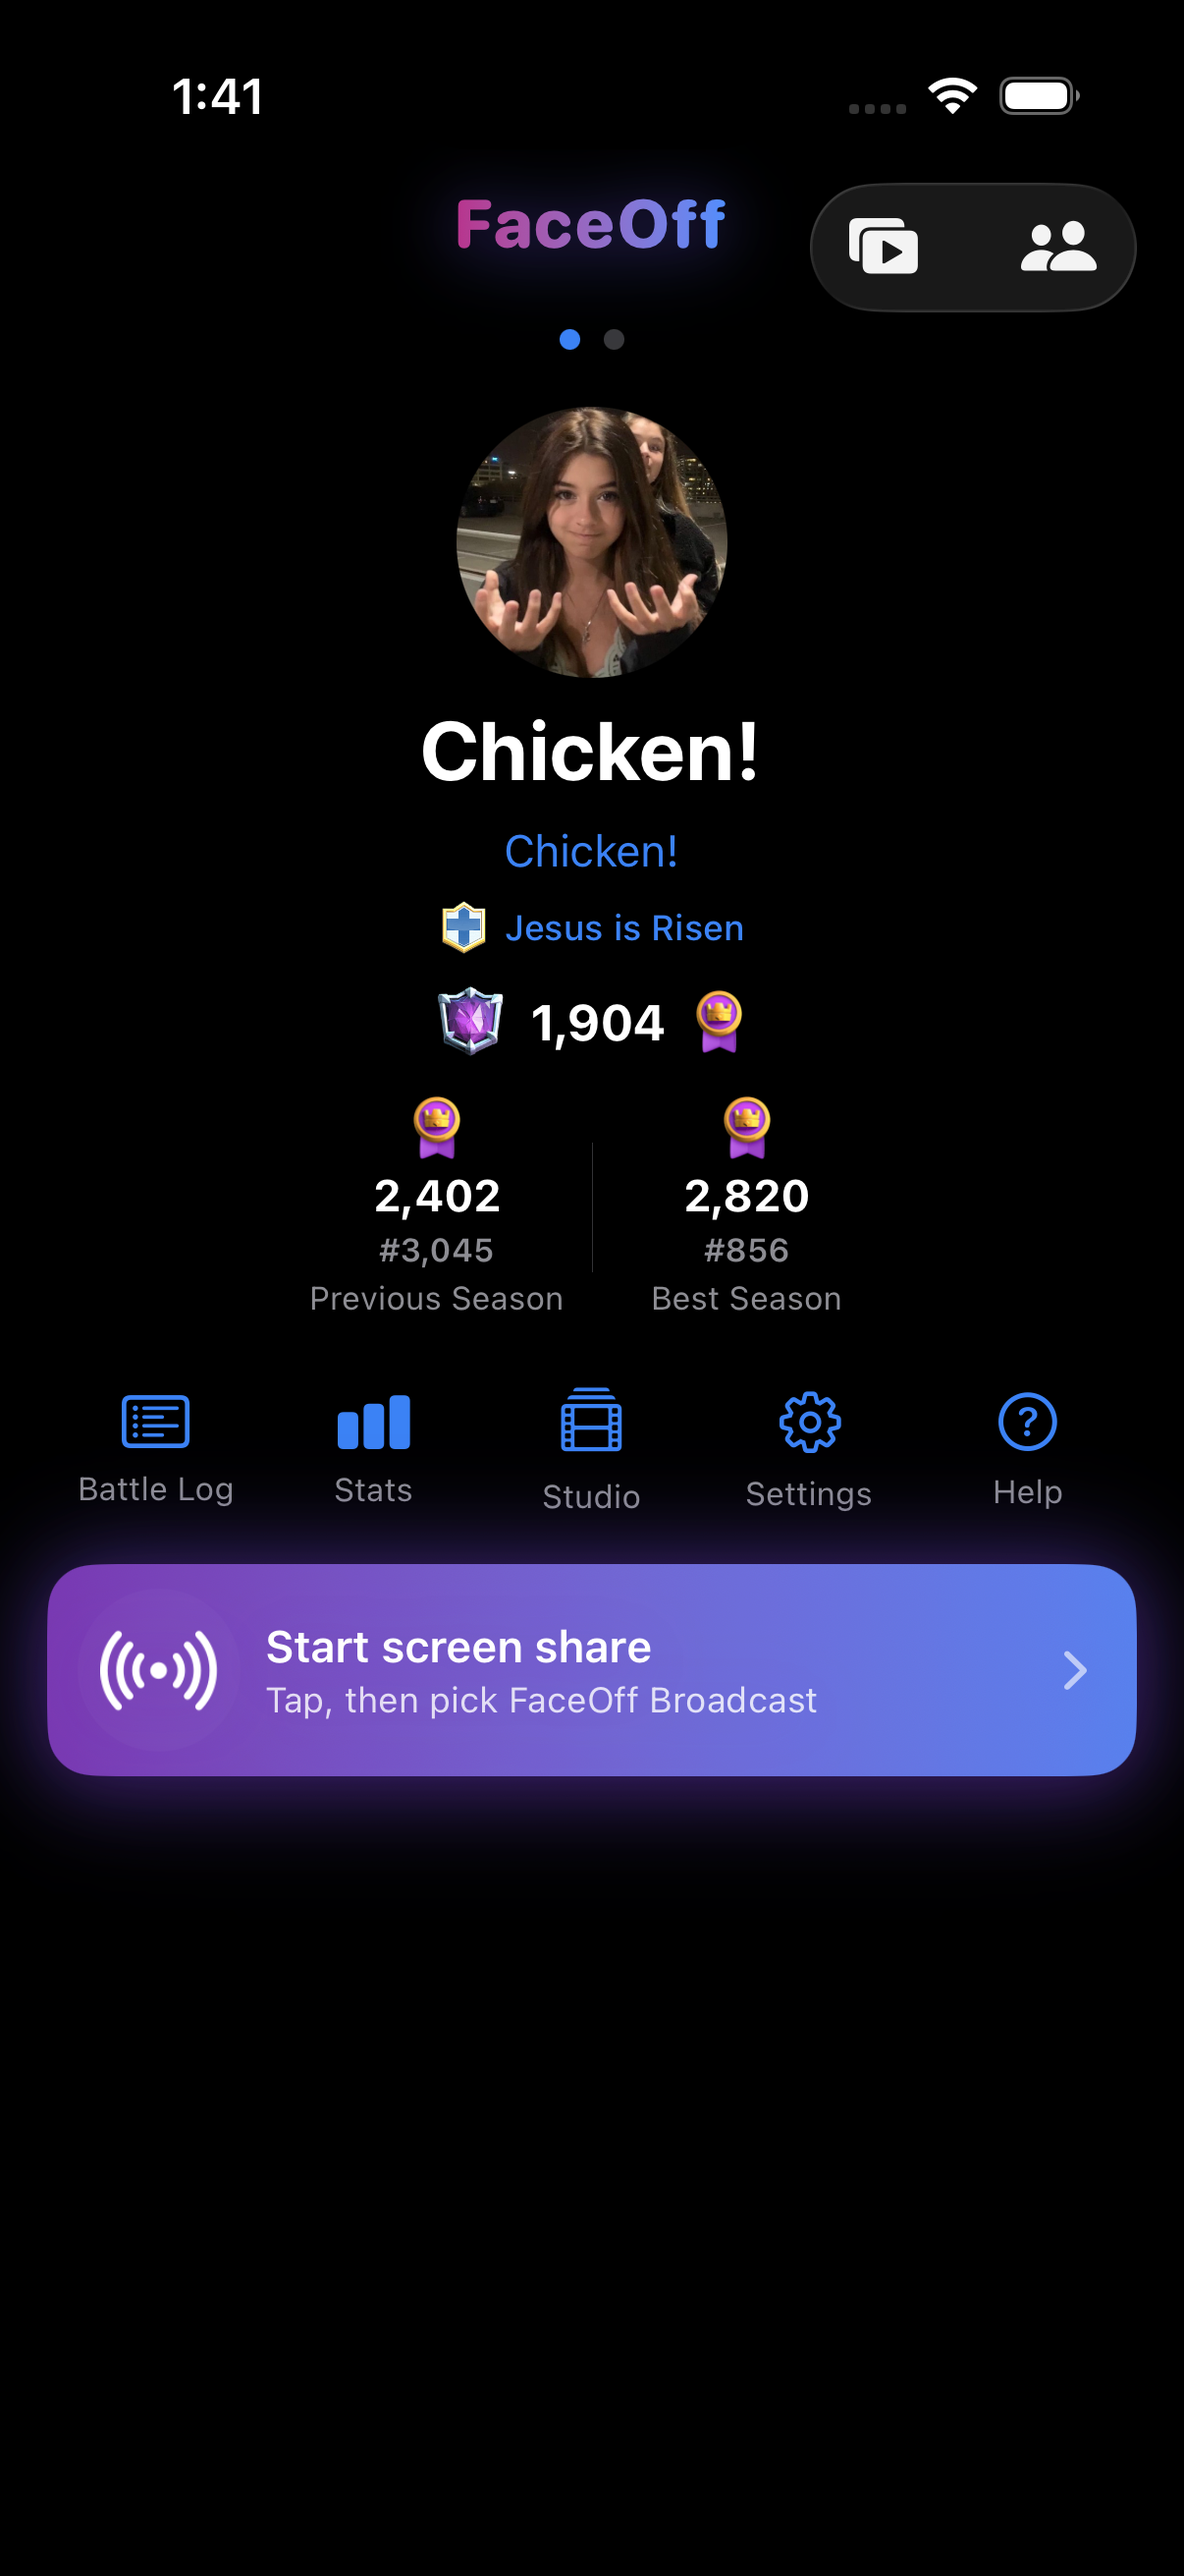
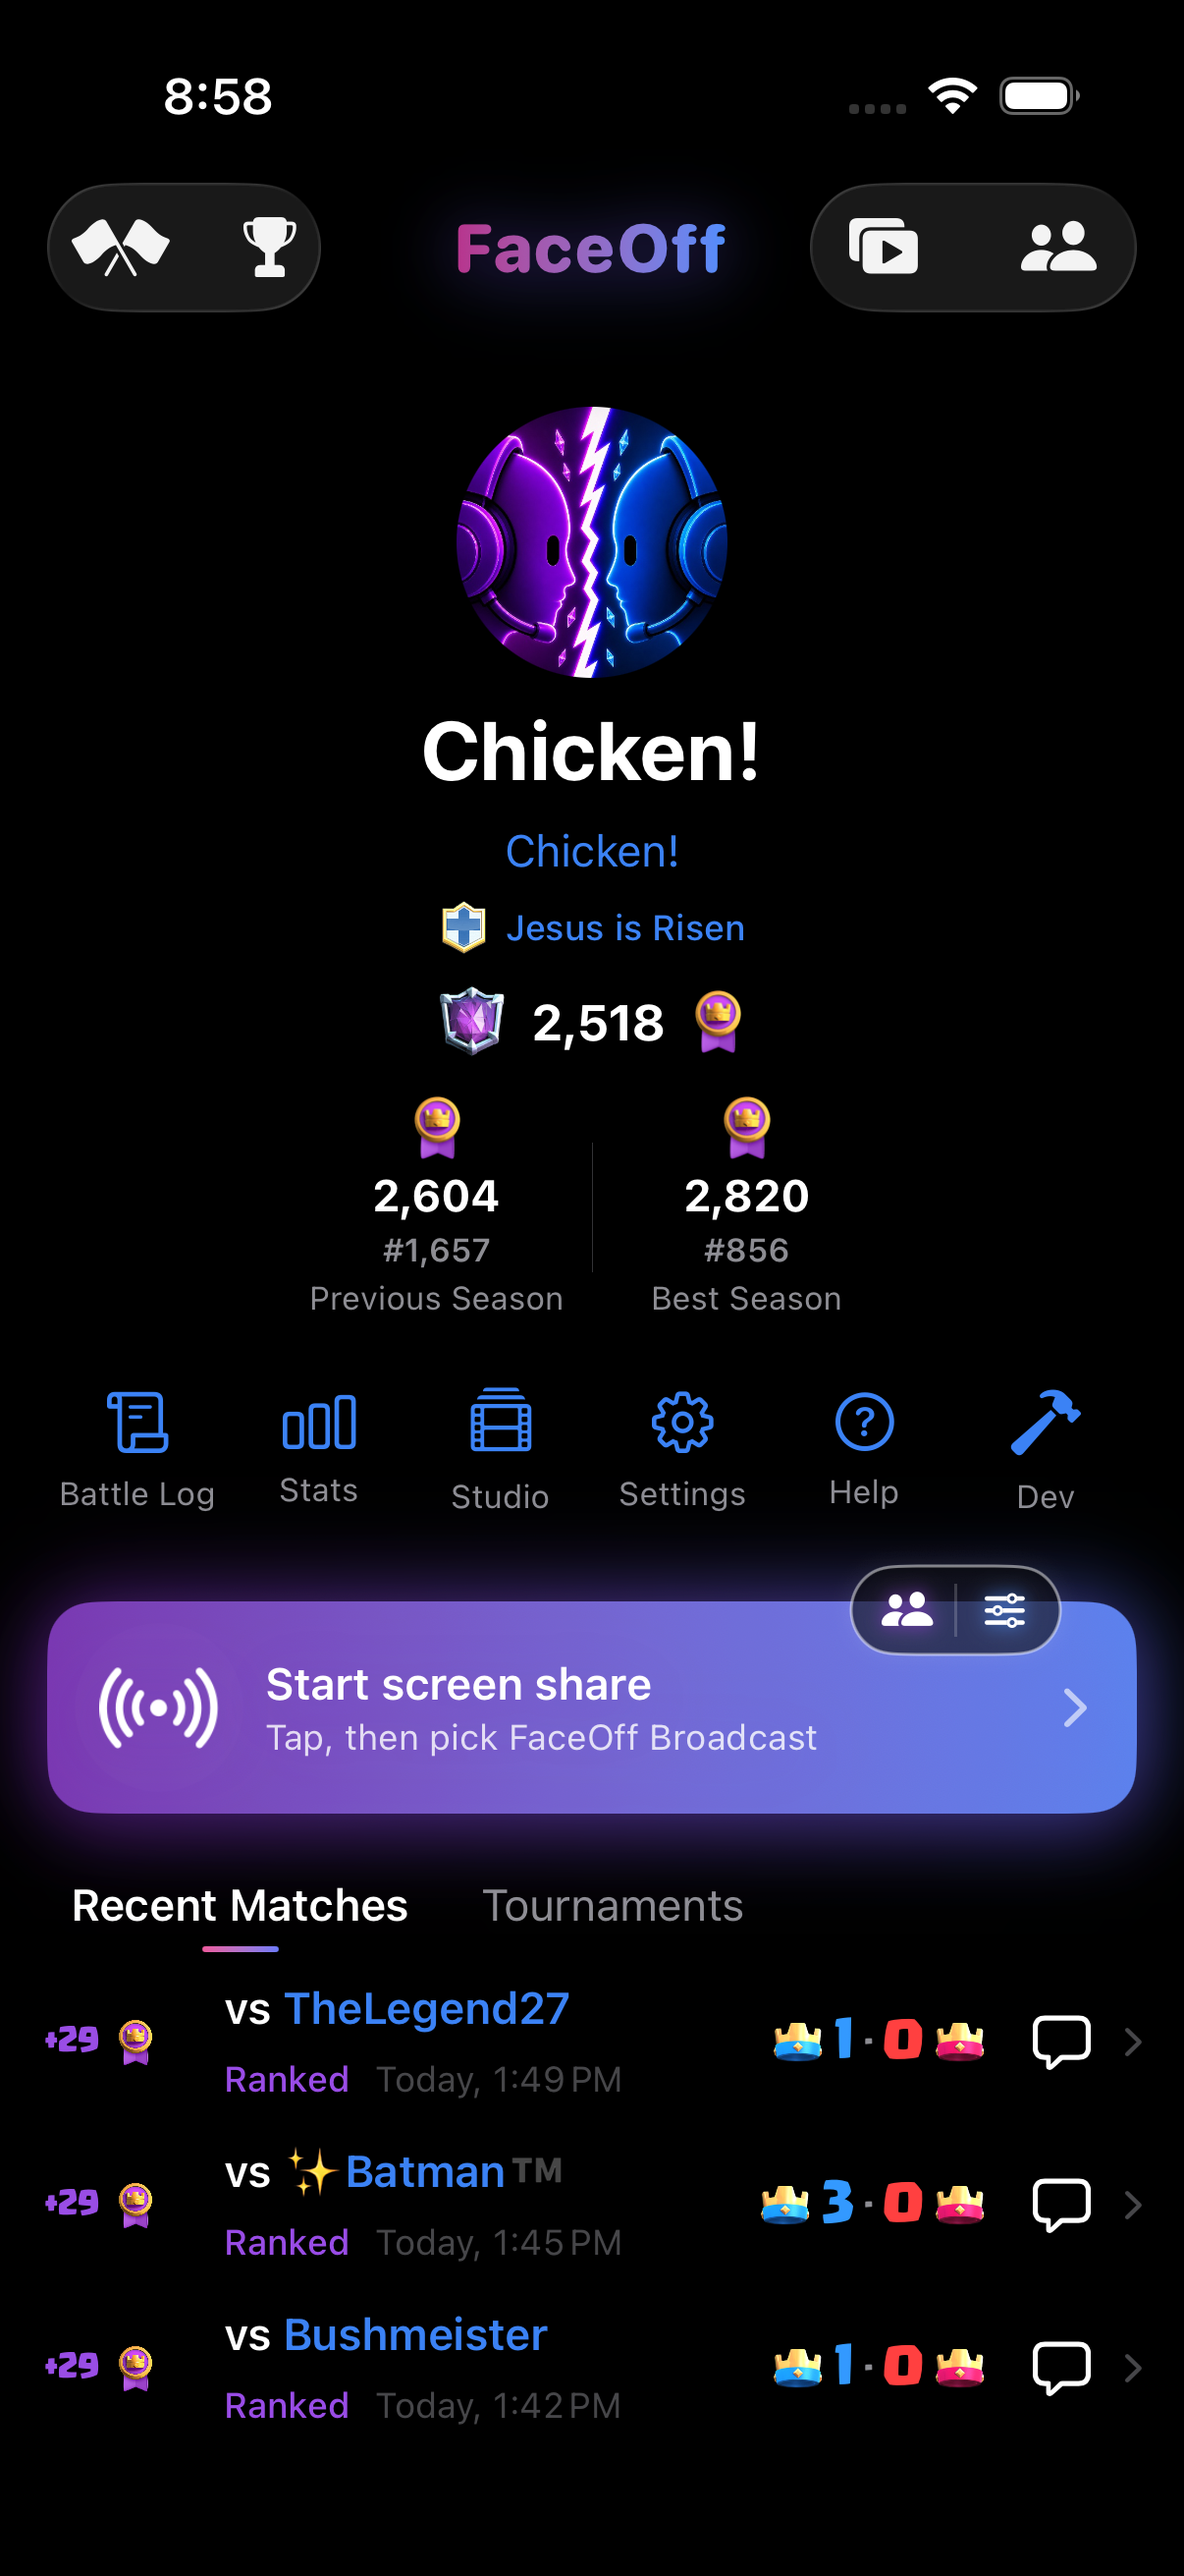
Refresh FaceOff gallery screenshots

diff --git a/index.html b/index.html
@@ -490,28 +490,28 @@
         </div>
         <div class="shot-row" id="faceoff-shots">
           <figure class="shot">
-            <button class="shot-trigger" type="button" data-full="./faceoff_shot_1.png" data-caption="iOS profile &amp; broadcast" aria-label="View the FaceOff iOS profile and screen-sharing screenshot full screen">
-              <img src="./faceoff_shot_1.png" alt="FaceOff iOS profile and screen-sharing interface" width="1206" height="2622" decoding="async" />
+            <button class="shot-trigger" type="button" data-full="./faceoff_shot_1.png" data-caption="iOS home" aria-label="View the FaceOff iOS home screenshot full screen">
+              <img src="./faceoff_shot_1.png" alt="FaceOff iOS home screen with profile, screen sharing, and recent matches" width="1206" height="2622" decoding="async" />
             </button>
-            <figcaption>iOS profile &amp; broadcast</figcaption>
+            <figcaption>iOS home</figcaption>
           </figure>
           <figure class="shot">
-            <button class="shot-trigger" type="button" data-full="./faceoff_shot_2.png" data-caption="iOS Studio" aria-label="View the FaceOff iOS Studio screenshot full screen">
-              <img src="./faceoff_shot_2.png" alt="FaceOff iOS Studio stream management interface" width="1206" height="2622" decoding="async" />
+            <button class="shot-trigger" type="button" data-full="./faceoff_shot_2.png" data-caption="iOS Battle Log" aria-label="View the FaceOff iOS Battle Log screenshot full screen">
+              <img src="./faceoff_shot_2.png" alt="FaceOff iOS Battle Log with match results and player decks" width="1206" height="2622" decoding="async" />
             </button>
-            <figcaption>iOS Studio</figcaption>
+            <figcaption>iOS Battle Log</figcaption>
           </figure>
           <figure class="shot">
-            <button class="shot-trigger" type="button" data-full="./faceoff_shot_3.png" data-caption="Android profile &amp; matches" aria-label="View the FaceOff Android profile and recent matches screenshot full screen">
-              <img src="./faceoff_shot_3.png" alt="FaceOff Android profile and recent matches interface" width="1080" height="2400" decoding="async" />
+            <button class="shot-trigger" type="button" data-full="./faceoff_shot_3.png" data-caption="Android home" aria-label="View the FaceOff Android home screenshot full screen">
+              <img src="./faceoff_shot_3.png" alt="FaceOff Android home screen with profile, screen sharing, and recent matches" width="1080" height="2400" decoding="async" />
             </button>
-            <figcaption>Android profile &amp; matches</figcaption>
+            <figcaption>Android home</figcaption>
           </figure>
           <figure class="shot">
-            <button class="shot-trigger" type="button" data-full="./faceoff_shot_4.png" data-caption="Android live stream" aria-label="View the FaceOff Android live-stream screenshot full screen">
-              <img src="./faceoff_shot_4.png" alt="FaceOff Android live-stream watching interface" width="1080" height="2400" decoding="async" />
+            <button class="shot-trigger" type="button" data-full="./faceoff_shot_4.png" data-caption="Android live broadcast" aria-label="View the FaceOff Android live-broadcast screenshot full screen">
+              <img src="./faceoff_shot_4.png" alt="FaceOff Android emulator during a live broadcast with audio controls and chat" width="1080" height="2400" decoding="async" />
             </button>
-            <figcaption>Android live stream</figcaption>
+            <figcaption>Android live broadcast</figcaption>
           </figure>
         </div>
       </article>
